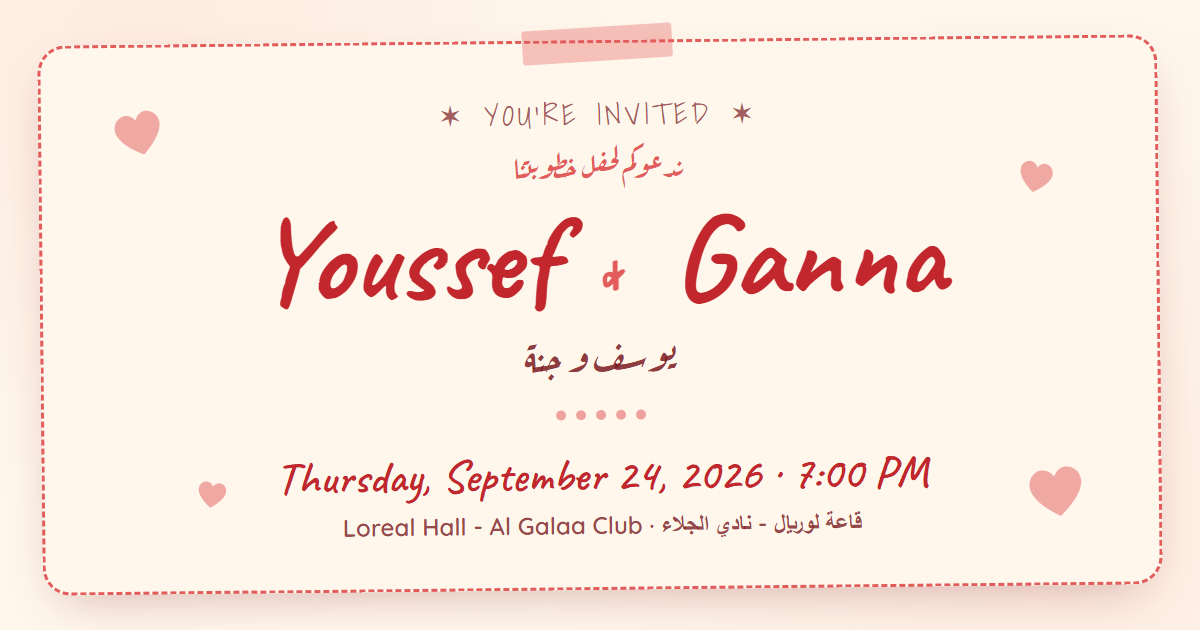
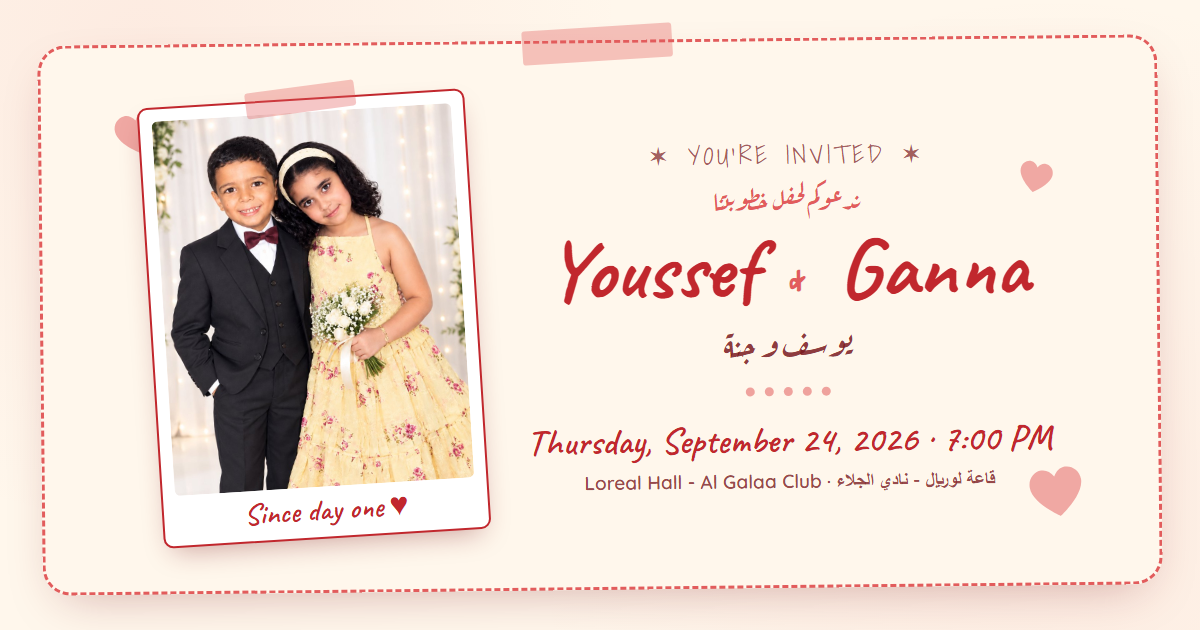
Hero: Youssef's chosen photo; OG cover refresh; precise gate location

diff --git a/tools/og-cover.html b/tools/og-cover.html
@@ -36,35 +36,60 @@
       background: #fff7ec;
       box-shadow: 0 18px 50px -20px rgba(122, 26, 31, 0.35);
       display: flex;
-      flex-direction: column;
       align-items: center;
       justify-content: center;
+      gap: 48px;
       text-align: center;
       position: relative;
       transform: rotate(-0.6deg);
+      padding: 0 56px;
     }
+    .polaroid {
+      flex: none;
+      background: #fff;
+      border: 2px solid #c1272d;
+      border-radius: 10px;
+      padding: 12px 12px 8px;
+      transform: rotate(-3deg);
+      box-shadow: 0 12px 28px -10px rgba(122, 26, 31, 0.4);
+      position: relative;
+    }
+    .polaroid img { width: 300px; height: 375px; object-fit: cover; border-radius: 6px; display: block; }
+    .polaroid .cap { font-family: 'Caveat', cursive; font-size: 30px; color: #c1272d; margin-top: 4px; }
+    .polaroid .ptape {
+      position: absolute;
+      top: -14px;
+      left: 50%;
+      transform: translateX(-50%) rotate(-4deg);
+      width: 110px;
+      height: 26px;
+      background: rgba(226, 92, 92, 0.35);
+      border-radius: 3px;
+    }
+    .stack { display: flex; flex-direction: column; align-items: center; }
     .eyebrow {
       font-family: 'Shadows Into Light', cursive;
-      font-size: 30px;
+      font-size: 26px;
       letter-spacing: 0.12em;
       text-transform: uppercase;
       color: rgba(122, 26, 31, 0.7);
     }
-    .eyebrow-ar { font-family: 'Aref Ruqaa', serif; font-size: 30px; color: #e25c5c; margin-top: 2px; }
+    .eyebrow-ar { font-family: 'Aref Ruqaa', serif; font-size: 26px; color: #e25c5c; margin-top: 2px; }
     .names {
       font-family: 'Caveat', cursive;
       font-weight: 700;
-      font-size: 120px;
+      font-size: 84px;
       line-height: 1.02;
       color: #c1272d;
-      margin: 10px 0 2px;
+      margin: 8px 0 2px;
+      white-space: nowrap;
     }
-    .names .amp { font-family: 'Shadows Into Light', cursive; font-size: 64px; color: #e25c5c; margin: 0 18px; }
-    .names-ar { font-family: 'Aref Ruqaa', serif; font-size: 40px; color: rgba(122, 26, 31, 0.85); }
-    .divider { display: flex; gap: 10px; margin: 26px 0; }
-    .divider i { width: 10px; height: 10px; border-radius: 50%; background: rgba(226, 92, 92, 0.55); }
-    .when { font-family: 'Caveat', cursive; font-size: 46px; color: #c1272d; }
-    .where { font-size: 24px; font-weight: 600; color: rgba(122, 26, 31, 0.8); margin-top: 6px; }
+    .names .amp { font-family: 'Shadows Into Light', cursive; font-size: 46px; color: #e25c5c; margin: 0 12px; }
+    .names-ar { font-family: 'Aref Ruqaa', serif; font-size: 34px; color: rgba(122, 26, 31, 0.85); }
+    .divider { display: flex; gap: 10px; margin: 20px 0; justify-content: center; }
+    .divider i { width: 9px; height: 9px; border-radius: 50%; background: rgba(226, 92, 92, 0.55); }
+    .when { font-family: 'Caveat', cursive; font-size: 37px; color: #c1272d; white-space: nowrap; }
+    .where { font-size: 19px; font-weight: 600; color: rgba(122, 26, 31, 0.8); margin-top: 6px; white-space: nowrap; }
     .heart {
       position: absolute;
       fill: #e25c5c;
@@ -91,13 +116,21 @@
     <svg class="heart" style="width:34px;left:150px;bottom:80px;transform:rotate(8deg)" viewBox="0 0 32 30"><path d="M16 27S3 18.5 3 10.5C3 6 6.5 3 10 3c2.5 0 4.5 1.5 6 4 1.5-2.5 3.5-4 6-4 3.5 0 7 3 7 7.5C29 18.5 16 27 16 27z"/></svg>
     <svg class="heart" style="width:64px;right:70px;bottom:60px;transform:rotate(-9deg)" viewBox="0 0 32 30"><path d="M16 27S3 18.5 3 10.5C3 6 6.5 3 10 3c2.5 0 4.5 1.5 6 4 1.5-2.5 3.5-4 6-4 3.5 0 7 3 7 7.5C29 18.5 16 27 16 27z"/></svg>
 
-    <div class="eyebrow">✶ You're invited ✶</div>
-    <div class="eyebrow-ar">ندعوكم لحفل خطوبتنا</div>
-    <div class="names">Youssef <span class="amp">&amp;</span> Ganna</div>
-    <div class="names-ar">يوسف و جنة</div>
-    <div class="divider"><i></i><i></i><i></i><i></i><i></i></div>
-    <div class="when">Thursday, September 24, 2026 · 7:00 PM</div>
-    <div class="where">Loreal Hall - Al Galaa Club · قاعة لوريال - نادي الجلاء</div>
+    <div class="polaroid">
+      <div class="ptape"></div>
+      <img src="../assets/Hero.jpeg" alt="" />
+      <div class="cap">Since day one ♥</div>
+    </div>
+
+    <div class="stack">
+      <div class="eyebrow">✶ You're invited ✶</div>
+      <div class="eyebrow-ar">ندعوكم لحفل خطوبتنا</div>
+      <div class="names">Youssef <span class="amp">&amp;</span> Ganna</div>
+      <div class="names-ar">يوسف و جنة</div>
+      <div class="divider"><i></i><i></i><i></i><i></i><i></i></div>
+      <div class="when">Thursday, September 24, 2026 · 7:00 PM</div>
+      <div class="where">Loreal Hall - Al Galaa Club · قاعة لوريال - نادي الجلاء</div>
+    </div>
   </div>
 </body>
 

diff --git a/script.js b/script.js
@@ -11,7 +11,7 @@ const INVITE = {
   venue: "Loreal Hall - Al Galaa Club",
   venueAr: "قاعة لوريال - نادي الجلاء",
   address: "",                    // optional area/city, e.g. "New Cairo" (hidden when empty)
-  mapsUrl: "https://maps.app.goo.gl/s44aGuM3sf1ryt758",
+  mapsUrl: "https://maps.app.goo.gl/dfo5dGdNXzPvPEBF6?g_st=ic", // gate location
 
   // V2: Google Apps Script web-app URL (ends in /exec) that appends wishes
   // to a Google Sheet — see apps-script/Code.gs for the 3-minute setup.

diff --git a/index.html b/index.html
@@ -79,7 +79,7 @@
       <div class="hero-photo">
         <div class="taped">
           <figure class="card polaroid tilt-l2">
-            <img src="assets/Hero.svg" alt="Youssef and Ganna" class="polaroid-img" />
+            <img src="assets/Hero.jpeg" alt="Youssef and Ganna as kids" class="polaroid-img" />
             <figcaption class="hand polaroid-caption">Getting engaged! ♥</figcaption>
           </figure>
         </div>
